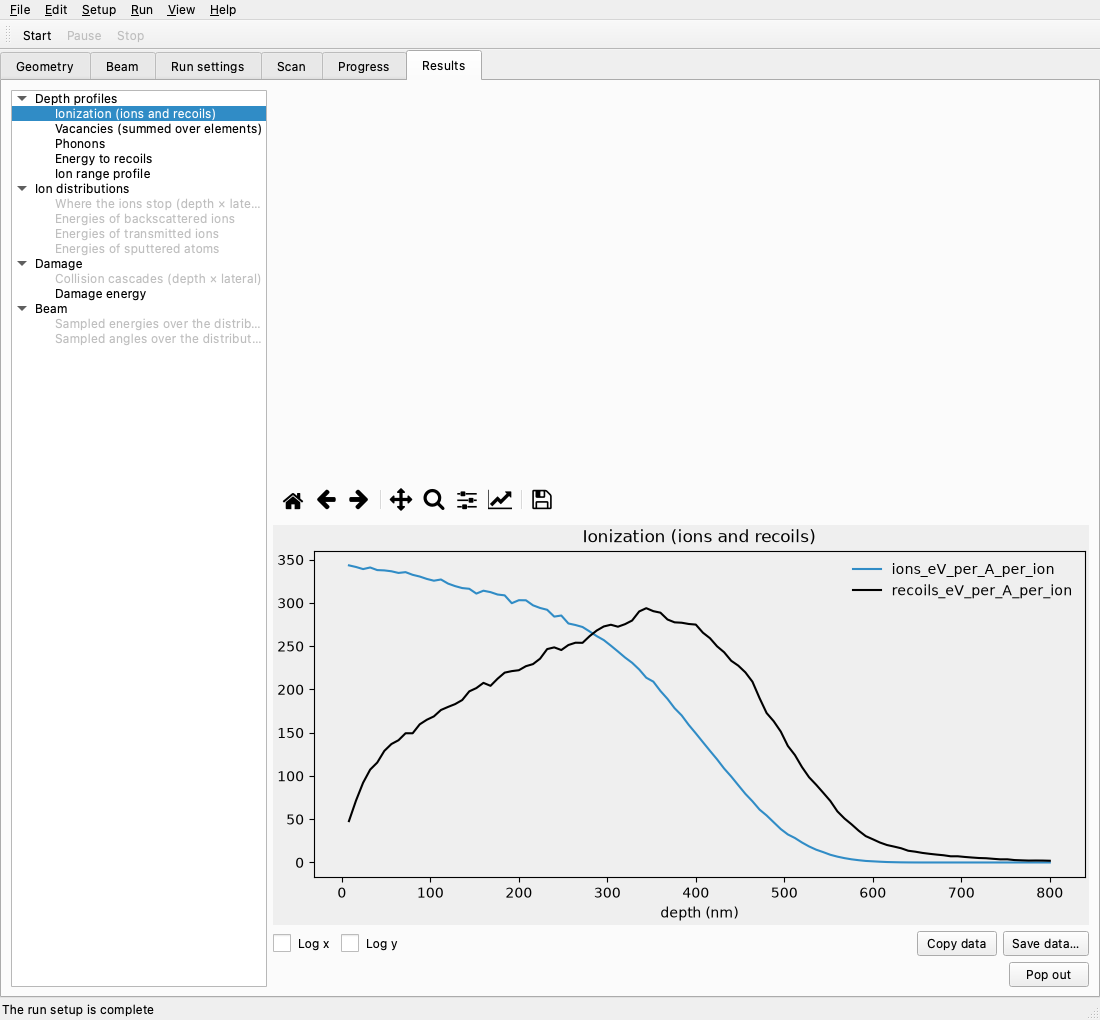
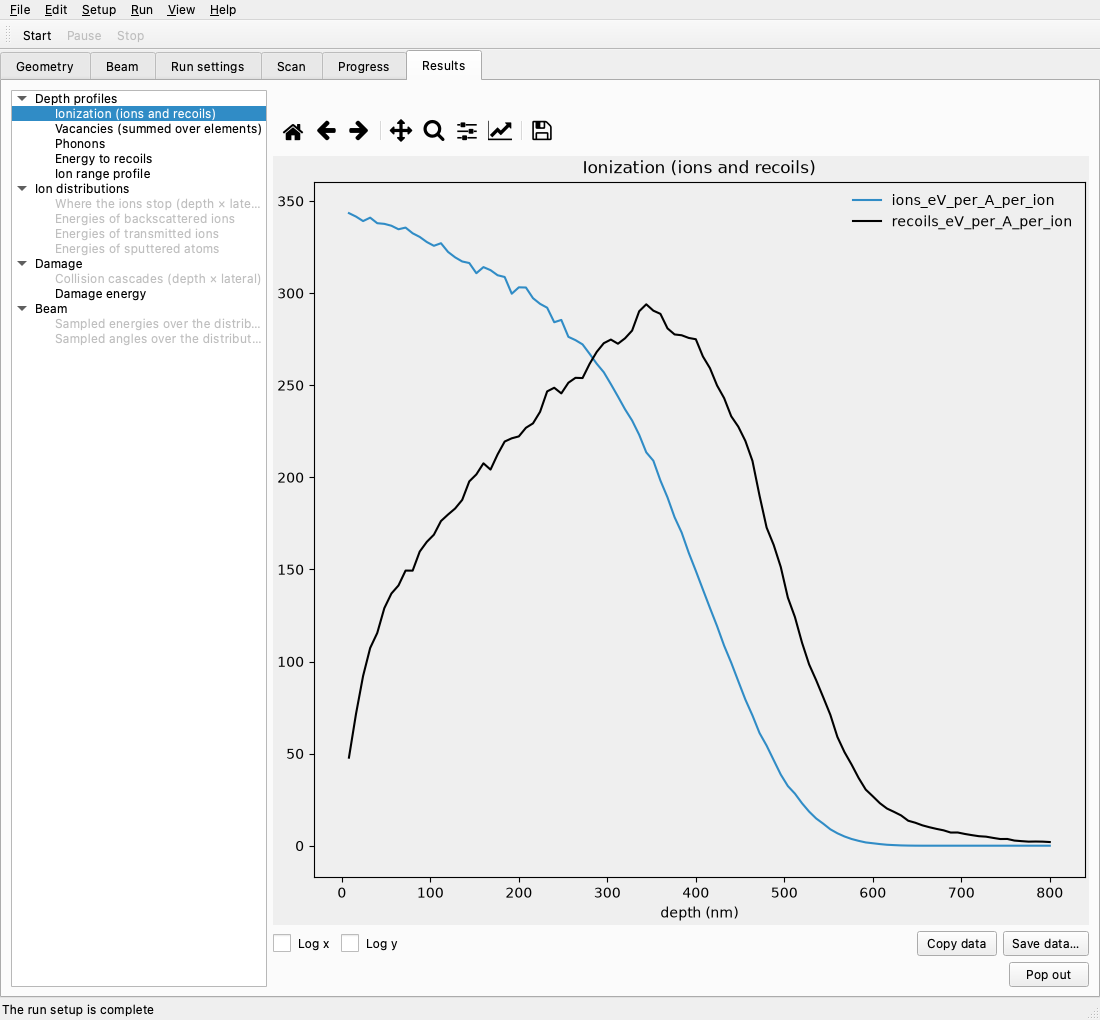
fix(app): plot canvas takes the spare height
The message label above the canvas was given the spare height as the canvas was, so an
empty message left the plot in the lower half of the Results tab. The canvas now takes the
stretch, and the message takes only its own height. The results picture is rebuilt.

diff --git a/docs/gallery/app_setup.py b/docs/gallery/app_setup.py
@@ -29,8 +29,13 @@ SETUP = {
             "density_g_cm3": 19.3,
             "phase": 0,
             "elements": [
-                {"symbol": "Au", "stoich": 1.0, "displacement_eV": 25.0, "lattice_eV": 3.0,
-                 "surface_eV": 3.0}
+                {
+                    "symbol": "Au",
+                    "stoich": 1.0,
+                    "displacement_eV": 25.0,
+                    "lattice_eV": 3.0,
+                    "surface_eV": 3.0,
+                }
             ],
         },
         {
@@ -39,8 +44,13 @@ SETUP = {
             "density_g_cm3": 2.33,
             "phase": 0,
             "elements": [
-                {"symbol": "Si", "stoich": 1.0, "displacement_eV": 15.0, "lattice_eV": 2.0,
-                 "surface_eV": 4.7}
+                {
+                    "symbol": "Si",
+                    "stoich": 1.0,
+                    "displacement_eV": 15.0,
+                    "lattice_eV": 2.0,
+                    "surface_eV": 4.7,
+                }
             ],
         },
     ],

diff --git a/srim/app/plot_canvas.py b/srim/app/plot_canvas.py
@@ -27,6 +27,7 @@ from PySide6.QtWidgets import (
     QLabel,
     QMessageBox,
     QPushButton,
+    QSizePolicy,
     QVBoxLayout,
     QWidget,
 )
@@ -67,6 +68,8 @@ class PlotCanvas(QWidget):
         self.toolbar = NavigationToolbar2QT(self.canvas, self)
         self.message = QLabel(self)
         self.message.setWordWrap(True)
+        # An empty or one-line message takes its height only: the spare height goes to the canvas.
+        self.message.setSizePolicy(QSizePolicy.Policy.Preferred, QSizePolicy.Policy.Maximum)
 
         self.log_x = QCheckBox("Log x", self)
         self.log_y = QCheckBox("Log y", self)
@@ -88,7 +91,7 @@ class PlotCanvas(QWidget):
         layout.setContentsMargins(0, 0, 0, 0)
         layout.addWidget(self.message)
         layout.addWidget(self.toolbar)
-        layout.addWidget(self.canvas)
+        layout.addWidget(self.canvas, 1)
         layout.addLayout(controls)
 
         self._generation = 0

diff --git a/tests/app/test_plot_canvas.py b/tests/app/test_plot_canvas.py
@@ -83,6 +83,17 @@ def test_a_plot_that_cannot_be_drawn_says_what_it_needs(qtbot, canvas, results):
     assert not canvas.copy_button.isEnabled()
 
 
+def test_the_canvas_takes_the_spare_height_and_the_empty_message_none(qtbot, canvas, results):
+    # The message is empty while a plot is shown; the figure must take the spare height.
+    canvas.resize(800, 900)
+    canvas.show()
+    with qtbot.waitSignal(canvas.drawn, timeout=10000):
+        canvas.show_plot(BY_KEY["ionization"], results)
+    qtbot.waitUntil(lambda: canvas.canvas.height() > 0)
+    assert canvas.message.text() == ""
+    assert canvas.canvas.height() > 10 * canvas.message.height()
+
+
 def test_copy_data_puts_the_csv_of_the_plot_on_the_clipboard(qtbot, canvas, results):
     with qtbot.waitSignal(canvas.drawn, timeout=10000):
         canvas.show_plot(BY_KEY["ionization"], results)

diff --git a/docs/gallery/_app_shots.py b/docs/gallery/_app_shots.py
@@ -176,7 +176,9 @@ def grab_results(out: Path, key: str = "ionization") -> Path:
 
             def drawn() -> bool:
                 axes = canvas.figure.axes
-                return canvas.message.text() == "" and bool(axes) and axes[0].get_title() == plot.title
+                return (
+                    canvas.message.text() == "" and bool(axes) and axes[0].get_title() == plot.title
+                )
 
             _wait(app, drawn, f"the {key} plot")
             return _grab(app, window, out)
